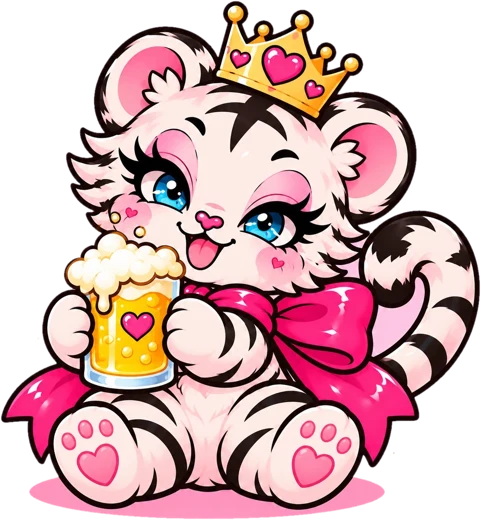
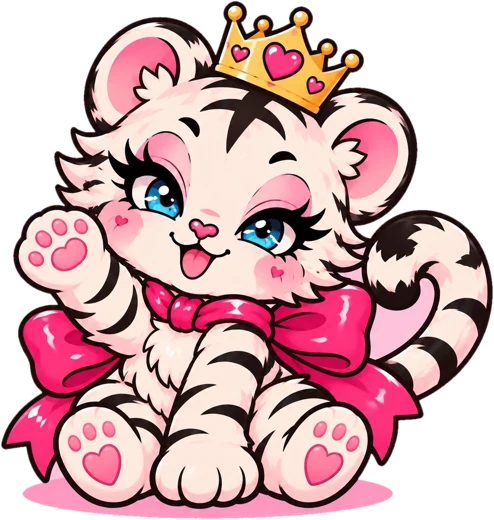
ランクの絵を入れ替え（おこめ＝手を振る、しらたま＝チップ、だいふく＝ビール）
Claude-Session: https://claude.ai/code/session_01DppYbvXazbtFVexqUH76bB

diff --git a/mochimochi/src/lib/brand-images.ts b/mochimochi/src/lib/brand-images.ts
@@ -26,6 +26,6 @@ export const IMG = {
   trumpDrowsy: "/brand/trump-drowsy.webp",
   /** なでなで画面：起きたとらんぷちゃん */
   trumpAwake: "/brand/trump-awake.webp",
-  /** ホームの会員カード右下のとらんぷちゃん（ランクの順：おこめ・しらたま・だいふく・かがみもち）。透過 */
+  /** ホームの会員カード右下のとらんぷちゃん。透過。おこめ＝手を振る、しらたま＝チップに乗る、だいふく＝ビール、かがみもち＝鏡餅 */
   rankIcons: ["/brand/rank-1.webp", "/brand/rank-2.webp", "/brand/rank-3.webp", "/brand/rank-4.webp"],
 } as const;

diff --git a/mochimochi/README.md b/mochimochi/README.md
@@ -14,7 +14,7 @@
 | `logo-mark.png` / `logo-mark.webp` | 画面上部のアイコン・ブラウザのアイコン（管理画面でロゴをアップロードするとそちらが優先）・スタンプ |
 | `logo-full.webp` | 登録画面・店内タブレットのQR表示・スタッフログイン |
 | `tiger-chip.webp` | チェックイン完了・QR表示 |
-| `rank-1.webp`〜`rank-4.webp` | ホームの会員カード右下のとらんぷちゃん（おこめ・しらたま・だいふく・かがみもちの順。透過）。カードの色は `src/lib/rank-theme.ts`。色と絵はランクの名前ではなく「下から何番目か」で決まるので、管理画面でランクを途中に足す・減らすと組み合わせがずれる |
+| `rank-1.webp`〜`rank-4.webp` | ホームの会員カード右下のとらんぷちゃん（おこめ＝手を振る、しらたま＝チップに乗る、だいふく＝ビール、かがみもち＝鏡餅。透過）。カードの色は `src/lib/rank-theme.ts`。色と絵はランクの名前ではなく「下から何番目か」で決まるので、管理画面でランクを途中に足す・減らすと組み合わせがずれる |
 | `tiger-shake.webp` | 登録画面・なでた回数 |
 | `slot-machine.webp` / `slot-trump.webp` | スロット台の絵（リール窓・ボタン・数字の位置に合わせて画面を重ねている。差し替えるときは同じ構図の絵にする）／リールのとらんぷちゃん |
 | `trump-sleep.webp` / `trump-drowsy.webp` / `trump-awake.webp` | なでなで画面のとらんぷちゃん（寝ている／なでるとむにゃむにゃ／起きた）。3枚は同じ構図・同じ大きさ（720×720）にそろえる |
